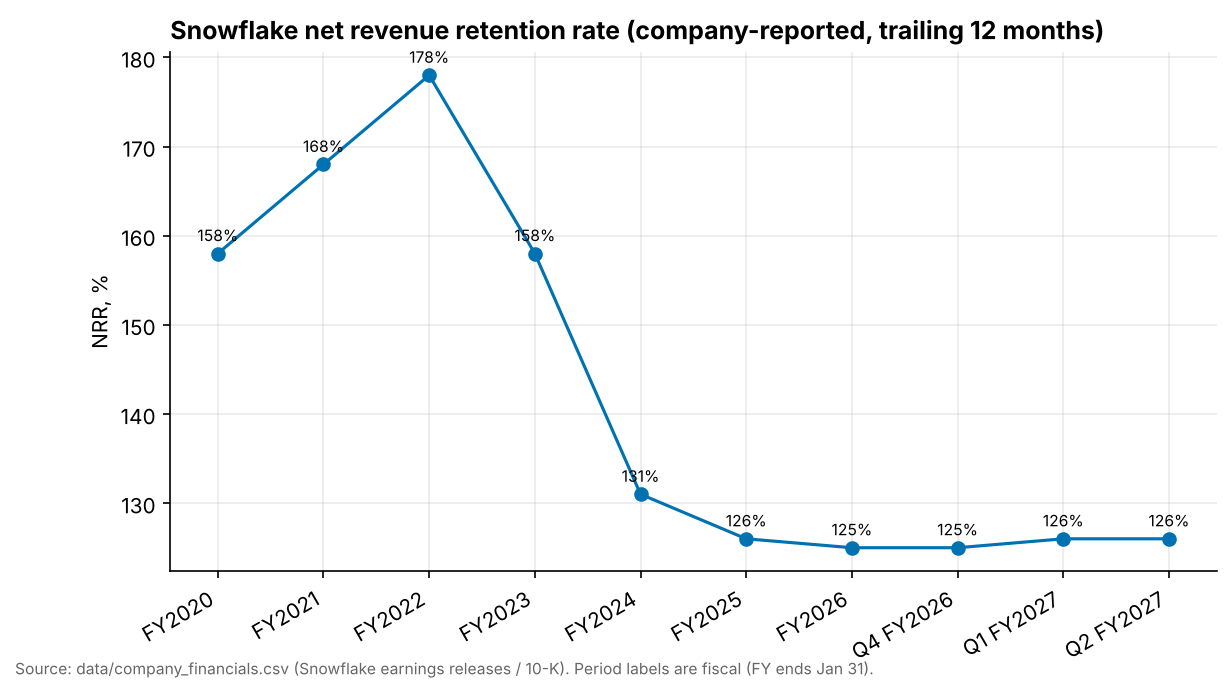
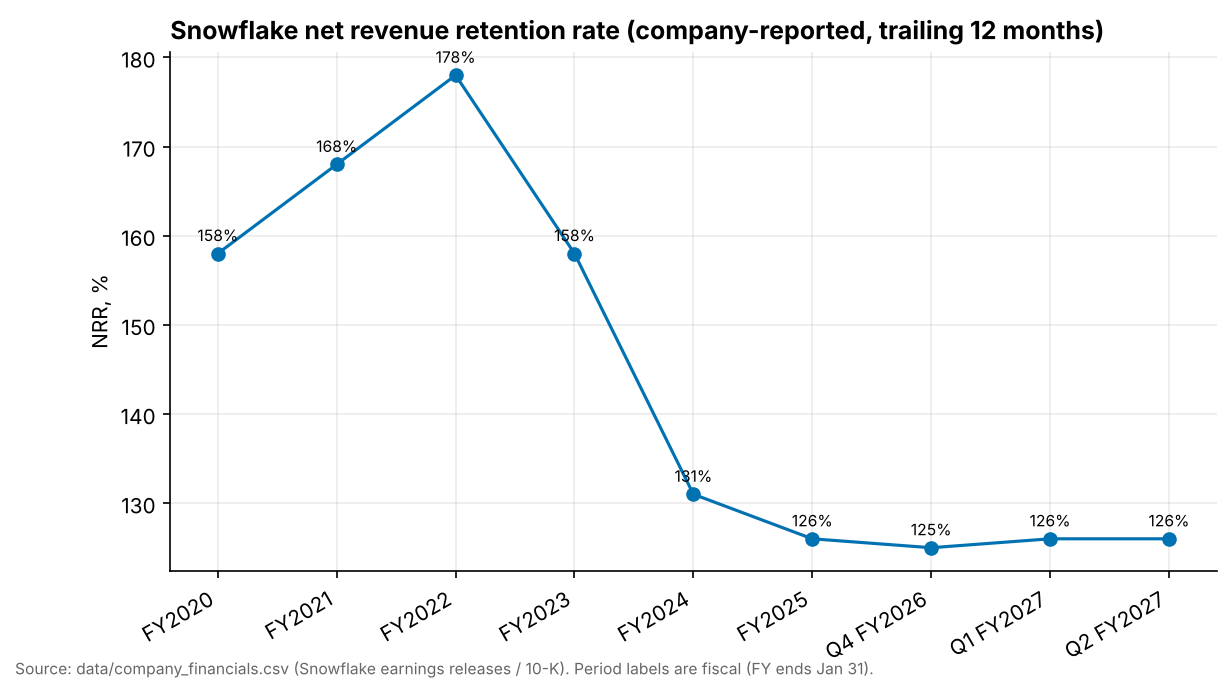
docs(ch26): Snowflake deep dive — Part 4 complete
Claude-Session: https://claude.ai/code/session_015j6Et44vVa5dK62bXN3KKX

diff --git a/scripts/charts/core_financials.py b/scripts/charts/core_financials.py
@@ -31,7 +31,7 @@ def make():
     # Snowflake NRR (all periods)
     n = f[(f["company"] == "Snowflake") & (f["metric"] == "nrr_pct")].copy()
     n["v"] = num(n["value"])
-    n = n.drop_duplicates("fiscal_period").sort_values("period_end")
+    n = n.sort_values(["period_end", "fiscal_period"]).drop_duplicates("period_end", keep="last").sort_values("period_end")
     if len(n):
         fig, ax = plt.subplots(figsize=(9, 4.5))
         ax.plot(n["fiscal_period"], n["v"], marker="o", color=PALETTE["blue"])
@@ -46,7 +46,7 @@ def make():
     # Snowflake RPO
     r = f[(f["company"] == "Snowflake") & (f["metric"] == "rpo")].copy()
     r["v"] = num(r["value"])
-    r = r.drop_duplicates("fiscal_period").sort_values("period_end")
+    r = r.sort_values(["period_end", "fiscal_period"]).drop_duplicates("period_end", keep="last").sort_values("period_end")
     if len(r):
         fig, ax = plt.subplots(figsize=(9, 4.5))
         div = 1000 if r["v"].max() > 200 else 1

diff --git a/meta/research-briefing.md b/meta/research-briefing.md
@@ -284,3 +284,5 @@
 > **Integrator notes (Part 3 cont., 2026-11-01):** (1) **Lakebase GA:** Feb 2026 on AWS, Mar 2026 on Azure (Databricks blog; Azure Updates) — earlier than "GA at DAIS 2026". (2) Tecton's "$900M" figure is its 2022 valuation, not the Databricks deal price. (3) Neptune–OpenAI: "<$400M in stock" per The Information (press-reported). (4) Nscale–Anyscale deal staged. (5) SQL Server 2025: VECTOR type GA; DiskANN index still preview on-premises. (6) Milvus 2.6 coverage names Pure Storage as a tiered-storage partner (useful for Ch 32/45).
 
 > **Integrator note (2026-11-01):** Salesforce renamed **Data Cloud → Data 360** at Dreamforce 2025 (effective ~2025-10-14) under the Agentforce 360 umbrella (Salesforce product page; salesforceben.com; Tableau help). **Search constraint:** the subagent web-search pool is exhausted as of Part 4; later drafters must rely on these research files and `data/*.csv`.
+
+> **Integrator note (Ch 26/31, 2026-11-01):** Snowflake **Openflow GA 2025-05-30** (Snowflake docs), not Summit 2026. Palantir's 70.3x in `public_comps.csv` is on a trailing-revenue basis (EV/TTM), not NTM — use EV/TTM wording.
